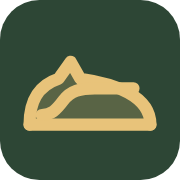
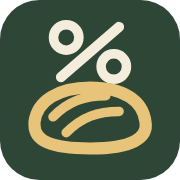
Zeichenpaar auf Prozentzeichen und Kompass umgestellt

Changed region(s): [[0.1111, 0.1111, 0.8889, 0.8611]]

diff --git a/Claude outputs/svg-paket-test.html b/Claude outputs/svg-paket-test.html
@@ -1,0 +1,32 @@
+<!doctype html>
+<html lang="de"><head><meta charset="utf-8"><meta name="viewport" content="width=device-width,initial-scale=1">
+<title>Motive verst&auml;rkt</title><style>
+ body{margin:0;background:#f7f4ea;color:#1f2c23;font-family:"Segoe UI",system-ui,Arial,sans-serif;line-height:1.5}
+ .wrap{max-width:880px;margin:0 auto;padding:26px 20px 50px}
+ h1{font-size:1.35rem;margin:0 0 6px}
+ p{color:#5c6b5f;max-width:72ch;margin:0 0 18px;font-size:.95rem}
+ table{border-collapse:collapse;background:#fff;border:1px solid #e2ddcc;border-radius:12px;overflow:hidden;width:100%}
+ th{font-size:.7rem;text-transform:uppercase;letter-spacing:.04em;color:#5c6b5f;padding:12px 14px;border-bottom:1px solid #e2ddcc}
+ td{padding:12px;border-bottom:1px solid #f0ece0;text-align:center;vertical-align:middle}
+ tr:last-child td{border-bottom:none}
+ tr.new td{background:#f6f9f2}
+ .nm{text-align:left;font-size:.84rem;font-weight:600;white-space:nowrap}
+ .nm small{font-weight:400;color:#5c6b5f;font-size:.85em}
+ .pix{image-rendering:pixelated;display:block;margin:0 auto}
+ .big{display:block;margin:0 auto;border-radius:21px}
+ .note{color:#5c6b5f;font-size:.88rem;margin-top:18px;max-width:72ch}
+</style></head><body><div class="wrap">
+<h1>Die Motive des Pakets, tauglich gemacht</h1>
+<p>Gr&uuml;n hinterlegt die nachgebaute Fassung: dieselben Motive &mdash; Prozentzeichen beziehungsweise Kompass &uuml;ber dem ovalen Laib mit zwei Einschnitten &mdash;, aber mit dreifach kr&auml;ftigeren Linien, dunkler Kachel f&uuml;r Kontrast und ohne Schattenfilter. Dar&uuml;ber und darunter zum Vergleich das Paket im Original und die derzeit eingebauten Zeichen.</p>
+<table>
+<thead><tr><th></th><th>16 px</th><th>32 px</th><th>gro&szlig;</th></tr></thead>
+<tbody>
[6 lines of base64/hex data omitted]
+</tbody></table>
+<p class="note">Der ovale Laib und das Prozentzeichen stammen aus dem Paket, die technischen Werte aus dem, was bei 16 Pixeln nachweislich noch ankommt.</p>
+</div></body></html>

diff --git a/site/doughcalculator/index.html b/site/doughcalculator/index.html
@@ -5,15 +5,15 @@
 <meta name="viewport" content="width=device-width, initial-scale=1">
 <title>Sauerteig-Rechner: Bäckerprozente, Hydration &amp; Teigausbeute</title>
 <meta name="description" content="Kostenloser Sauerteig-Rechner: Bäckerprozente, Hydration und Teigausbeute berechnen, Brotgewicht abschätzen und Rezepte auf jede Menge umrechnen.">
-<link rel="icon" href="../assets/favicon.svg?v=20260907-5" type="image/svg+xml">
-<link rel="apple-touch-icon" href="../assets/apple-touch-icon.png?v=20260907-5">
+<link rel="icon" href="../assets/favicon.svg?v=20260907-6" type="image/svg+xml">
+<link rel="apple-touch-icon" href="../assets/apple-touch-icon.png?v=20260907-6">
 <!-- ?v=... ist ein Cache-Buster und MUSS bei jeder Aenderung an style.css
      oder doughcalculator.js hochgezaehlt werden (Konvention: Datum, bei
      mehreren Deploys am selben Tag mit -2, -3 dahinter). Der IONOS-Webspace
      liefert diese Dateien ohne Cache-Control-Header aus, der Browser cacht
      sie also nach eigener Heuristik - ohne den Parameter sehen
      wiederkehrende Besucher unter Umstaenden neues HTML mit alter Logik. -->
-<link rel="stylesheet" href="../assets/style.css?v=20260907-5">
+<link rel="stylesheet" href="../assets/style.css?v=20260907-6">
 <style>
   /* page-specific tweaks */
   .col-remove { text-align: right; }
@@ -203,7 +203,7 @@
 
   <header class="site-header">
     <a class="brand" href="../index.html">
-      <img class="logo-mark" src="../assets/favicon.svg?v=20260907-5" width="34" height="34" alt="">
+      <img class="logo-mark" src="../assets/favicon.svg?v=20260907-6" width="34" height="34" alt="">
       <span class="brand-name wordmark"><b>Dough</b>Calculator</span>
     </a>
     <div class="lang-toggle" role="group" aria-label="Language">
@@ -301,7 +301,7 @@
 
     <section class="card teaser-card">
       <h2>
-        <img class="teaser-mark" src="../assets/doughpilot.svg?v=20260907-5" width="30" height="30" alt="">
+        <img class="teaser-mark" src="../assets/doughpilot.svg?v=20260907-6" width="30" height="30" alt="">
         <!-- Der uebersetzte Text sitzt in einem eigenen span: applyI18n setzt
              textContent, und das wuerde das Bild daneben mit loeschen, wenn
              data-i18n direkt am h2 haengt. -->
@@ -338,6 +338,6 @@
   </footer>
 </div>
 
-<script src="../assets/doughcalculator.js?v=20260907-5"></script>
+<script src="../assets/doughcalculator.js?v=20260907-6"></script>
 </body>
 </html>

diff --git a/site/index.html b/site/index.html
@@ -5,11 +5,11 @@
 <meta name="viewport" content="width=device-width, initial-scale=1">
 <title>Alltagshelfer – kostenlose Web-Apps für den Alltag</title>
 <meta name="description" content="Sammlung kostenloser Web-Helfer für den Alltag: aktuell DoughCalculator für Sauerteigbrot, künftig weitere Tools aus ganz unterschiedlichen Bereichen.">
-<link rel="icon" href="assets/favicon.svg?v=20260907-5" type="image/svg+xml">
-<link rel="apple-touch-icon" href="assets/apple-touch-icon.png?v=20260907-5">
+<link rel="icon" href="assets/favicon.svg?v=20260907-6" type="image/svg+xml">
+<link rel="apple-touch-icon" href="assets/apple-touch-icon.png?v=20260907-6">
 <!-- ?v=... siehe Kommentar in doughcalculator/index.html: bei jeder
      Aenderung an style.css hochzaehlen. -->
-<link rel="stylesheet" href="assets/style.css?v=20260907-5">
+<link rel="stylesheet" href="assets/style.css?v=20260907-6">
 </head>
 <body>
 <div class="wrap">
@@ -34,13 +34,13 @@
 
     <div class="tool-grid">
       <a class="tool-card" href="doughcalculator/index.html">
-        <img class="tool-icon" src="assets/favicon.svg?v=20260907-5" width="40" height="40" alt="">
+        <img class="tool-icon" src="assets/favicon.svg?v=20260907-6" width="40" height="40" alt="">
         <span class="tool-title">DoughCalculator</span>
         <span class="tool-desc" data-i18n="calcDesc">Bäckerprozente, Hydration und erwartetes Brotgewicht aus deiner Zutatenliste – inkl. Skalieren auf ein Zielgewicht.</span>
       </a>
 
       <span class="tool-card disabled">
-        <img class="tool-icon" src="assets/doughpilot.svg?v=20260907-5" width="40" height="40" alt="">
+        <img class="tool-icon" src="assets/doughpilot.svg?v=20260907-6" width="40" height="40" alt="">
         <span class="tool-title">DoughPilot</span>
         <span class="badge" data-i18n="comingSoon">Demnächst</span>
         <span class="tool-desc" data-i18n="pilotDesc">Macht das Backen von Sauerteigbrot einfach.</span>
